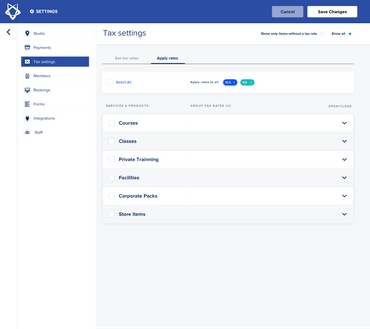
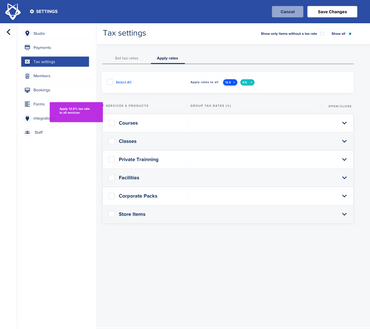
adding tooltips

Changed region(s): [[0.1189, 0.304, 0.2973, 0.3951]]

diff --git a/index.html b/index.html
@@ -39,23 +39,21 @@
 	<link type="text/css" rel="stylesheet" href="assets/apps/share/css-static/bootstrap.css">
 	<link type="text/css" rel="stylesheet" href="assets/apps/share/css-static/intlTelInput.css">
 	<link type="text/css" rel="stylesheet" href="assets/apps/share/css/share-offline.css">
-
-<!-- Hotjar Tracking Code for https://cristi-glofox.github.io/sales-tax-test-3a/index.html -->
+	<!-- Hotjar Tracking Code for https://cristi-glofox.github.io/sales-tax-test-3a/index.html -->
 <script>
-	var url = window.location.href;
-	if (url.indexOf("version3") == -1) {
-		window.location.href = "https://google.com";
-	}
-
-    (function(h,o,t,j,a,r){
-        h.hj=h.hj||function(){(h.hj.q=h.hj.q||[]).push(arguments)};
-        h._hjSettings={hjid:1389928,hjsv:6};
-        a=o.getElementsByTagName('head')[0];
-        r=o.createElement('script');r.async=1;
-        r.src=t+h._hjSettings.hjid+j+h._hjSettings.hjsv;
-        a.appendChild(r);
-    })(window,document,'https://static.hotjar.com/c/hotjar-','.js?sv=');
-</script>
+		var url = window.location.href;
+		if (url.indexOf("version3") == -1) {
+			window.location.href = "https://google.com";
+		}
+		(function(h,o,t,j,a,r){
+			h.hj=h.hj||function(){(h.hj.q=h.hj.q||[]).push(arguments)};
+			h._hjSettings={hjid:1389928,hjsv:6};
+			a=o.getElementsByTagName('head')[0];
+			r=o.createElement('script');r.async=1;
+			r.src=t+h._hjSettings.hjid+j+h._hjSettings.hjsv;
+			a.appendChild(r);
+		})(window,document,'https://static.hotjar.com/c/hotjar-','.js?sv=');
+	</script>
 </head>
 <body
 	class="branding-invision"
@@ -185,11 +183,11 @@
 						},
 						shouldShowPoweredBy: false,
 						share: {"isLoadAllScreens":true,"showToolbarIntroduction":false,"hasClosedShareIntro":true,"screenID":0,"isNavigateAllowed":true},
-						project: {"defaultbackgroundautostretch":"0","defaultZoomScrollBehavior":1,"isArchived":false,"homeScreenID":372209086,"createdAt":1562232473000,"mobileStatusbarFontColor":"white","isProcessed":true,"sortTypeID":1,"name":"[DES-73] Dash – Sale Tax V3A Test","platform":"any","defaultbackgroundimageposition":"tile-horizontally","isMobile":false,"defaultBackgroundImageID":"","isSample":false,"deviceType":"desktop","userID":148942075,"mobileDeviceID":0,"mobileStatusbarBackgroundColor":"#000000","isOverQuota":false,"defaultBackgroundColor":"333333","isInGracePeriod":false,"defaultAlignment":"center","updatedAt":1562236452000,"companyID":0,"id":17943299,"isSnap":false,"lastAccessedAt":1562232473000,"mobileStatusbarIsOpaque":false,"defaultbackgroundframe":"0","mobileDeviceWidth":0,"isAdvanced":false,"orientation":"any","mobileStatusbarIsVisible":true},
-						screens: [{"thumbnailUrl":"assets/thumb_v3A.Dash_SalesTax-Select or Apply to all@2x.png","extended":{},"isArchived":false,"screenTypeID":1,"backgroundImageWidth":"","createdAt":1562232942000,"zoomScrollBehavior":1,"updatedByUserName":"Cristi Farcas","backgroundImageUrl":"","backgroundImageHeight":"","clientFilename":"v3A.Dash_SalesTax-Select or Apply to all@2x.png","backgroundFrame":false,"backgroundImagePosition":"tile-horizontally","isProcessed":true,"screenGroupId":0,"width":2880,"unreadCommentCount":0,"name":"v3A.Dash SalesTax-Select Or Apply To All","screenUploadState":2,"backgroundColor":"333333","fixedHeaderHeight":180,"imageUrl":"assets/v3A.Dash_SalesTax-Select or Apply to all@2x.png","height":2562,"backgroundAutostretch":false,"userID":346811053,"backgroundimageserverfilename":"","serverFileName":"372209086.png","sort":1,"fixedFooterHeight":0,"alignment":"center","commentCount":0,"updatedAt":1562236943000,"id":372209086,"backgroundimageversion":"1","isPlaceholder":false,"projectID":17943299,"backgroundImageID":0,"imageVersion":4,"backgroundImageClientFilename":""},{"thumbnailUrl":"assets/thumb_v3A.Dash_SalesTax-Select All@2x.png","extended":{},"isArchived":false,"screenTypeID":1,"backgroundImageWidth":"","createdAt":1562232942000,"zoomScrollBehavior":1,"updatedByUserName":"Cristi Farcas","backgroundImageUrl":"","backgroundImageHeight":"","clientFilename":"v3A.Dash_SalesTax-Select All@2x.png","backgroundFrame":false,"backgroundImagePosition":"tile-horizontally","isProcessed":true,"screenGroupId":0,"width":2880,"unreadCommentCount":0,"name":"v3A.Dash SalesTax-Select All","screenUploadState":2,"backgroundColor":"333333","fixedHeaderHeight":0,"imageUrl":"assets/v3A.Dash_SalesTax-Select All@2x.png","height":2562,"backgroundAutostretch":false,"userID":346811053,"backgroundimageserverfilename":"","serverFileName":"372209087.png","sort":2,"fixedFooterHeight":0,"alignment":"center","commentCount":0,"updatedAt":1562236943000,"id":372209087,"backgroundimageversion":"1","isPlaceholder":false,"projectID":17943299,"backgroundImageID":0,"imageVersion":4,"backgroundImageClientFilename":""},{"thumbnailUrl":"assets/thumb_v3A.Dash_SalesTax-1 Rate Applied to all@2x.png","extended":{},"isArchived":false,"screenTypeID":1,"backgroundImageWidth":"","createdAt":1562232942000,"zoomScrollBehavior":1,"updatedByUserName":"Cristi Farcas","backgroundImageUrl":"","backgroundImageHeight":"","clientFilename":"v3A.Dash_SalesTax-1 Rate Applied to all@2x.png","backgroundFrame":false,"backgroundImagePosition":"tile-horizontally","isProcessed":true,"screenGroupId":0,"width":2880,"unreadCommentCount":0,"name":"v3A.Dash SalesTax-1 Rate Applied To All","screenUploadState":2,"backgroundColor":"333333","fixedHeaderHeight":0,"imageUrl":"assets/v3A.Dash_SalesTax-1 Rate Applied to all@2x.png","height":2562,"backgroundAutostretch":false,"userID":346811053,"backgroundimageserverfilename":"","serverFileName":"372209088.png","sort":3,"fixedFooterHeight":0,"alignment":"center","commentCount":0,"updatedAt":1562236942000,"id":372209088,"backgroundimageversion":"1","isPlaceholder":false,"projectID":17943299,"backgroundImageID":0,"imageVersion":4,"backgroundImageClientFilename":""},{"thumbnailUrl":"assets/thumb_v3A.Dash_SalesTax-Select Service 1@2x.png","extended":{},"isArchived":false,"screenTypeID":1,"backgroundImageWidth":"","createdAt":1562234922000,"zoomScrollBehavior":1,"updatedByUserName":"Cristi Farcas","backgroundImageUrl":"","backgroundImageHeight":"","clientFilename":"v3A.Dash_SalesTax-Select Service 1@2x.png","backgroundFrame":false,"backgroundImagePosition":"tile-horizontally","isProcessed":true,"screenGroupId":0,"width":2880,"unreadCommentCount":0,"name":"v3A.Dash SalesTax-Select Service 1","screenUploadState":2,"backgroundColor":"333333","fixedHeaderHeight":0,"imageUrl":"assets/v3A.Dash_SalesTax-Select Service 1@2x.png","height":2562,"backgroundAutostretch":false,"userID":346811053,"backgroundimageserverfilename":"","serverFileName":"372216613.png","sort":4,"fixedFooterHeight":0,"alignment":"center","commentCount":0,"updatedAt":1562236942000,"id":372216613,"backgroundimageversion":"1","isPlaceholder":false,"projectID":17943299,"backgroundImageID":0,"imageVersion":4,"backgroundImageClientFilename":""},{"thumbnailUrl":"assets/thumb_v3A.Dash_SalesTax-Select Service 2@2x.png","extended":{},"isArchived":false,"screenTypeID":1,"backgroundImageWidth":"","createdAt":1562234922000,"zoomScrollBehavior":1,"updatedByUserName":"Cristi Farcas","backgroundImageUrl":"","backgroundImageHeight":"","clientFilename":"v3A.Dash_SalesTax-Select Service 2@2x.png","backgroundFrame":false,"backgroundImagePosition":"tile-horizontally","isProcessed":true,"screenGroupId":0,"width":2880,"unreadCommentCount":0,"name":"v3A.Dash SalesTax-Select Service 2","screenUploadState":2,"backgroundColor":"333333","fixedHeaderHeight":180,"imageUrl":"assets/v3A.Dash_SalesTax-Select Service 2@2x.png","height":2562,"backgroundAutostretch":false,"userID":346811053,"backgroundimageserverfilename":"","serverFileName":"372216614.png","sort":5,"fixedFooterHeight":0,"alignment":"center","commentCount":0,"updatedAt":1562236943000,"id":372216614,"backgroundimageversion":"1","isPlaceholder":false,"projectID":17943299,"backgroundImageID":0,"imageVersion":3,"backgroundImageClientFilename":""},{"thumbnailUrl":"assets/thumb_v3A.Dash_SalesTax-Other Rated Applied@2x.png","extended":{},"isArchived":false,"screenTypeID":1,"backgroundImageWidth":"","createdAt":1562235511000,"zoomScrollBehavior":1,"updatedByUserName":"Cristi Farcas","backgroundImageUrl":"","backgroundImageHeight":"","clientFilename":"v3A.Dash_SalesTax-Other Rated Applied@2x.png","backgroundFrame":false,"backgroundImagePosition":"tile-horizontally","isProcessed":true,"screenGroupId":0,"width":2880,"unreadCommentCount":0,"name":"v3A.Dash SalesTax-Other Rated Applied","screenUploadState":2,"backgroundColor":"333333","fixedHeaderHeight":180,"imageUrl":"assets/v3A.Dash_SalesTax-Other Rated Applied@2x.png","height":2562,"backgroundAutostretch":false,"userID":346811053,"backgroundimageserverfilename":"","serverFileName":"372218409.png","sort":6,"fixedFooterHeight":0,"alignment":"center","commentCount":0,"updatedAt":1562236944000,"id":372218409,"backgroundimageversion":"1","isPlaceholder":false,"projectID":17943299,"backgroundImageID":0,"imageVersion":3,"backgroundImageClientFilename":""},{"thumbnailUrl":"assets/thumb_v3A.Dash_SalesTax-Expand Facilities 4@2x.png","extended":{},"isArchived":false,"screenTypeID":1,"backgroundImageWidth":"","createdAt":1562235511000,"zoomScrollBehavior":1,"updatedByUserName":"Cristi Farcas","backgroundImageUrl":"","backgroundImageHeight":"","clientFilename":"v3A.Dash_SalesTax-Expand Facilities 4@2x.png","backgroundFrame":false,"backgroundImagePosition":"tile-horizontally","isProcessed":true,"screenGroupId":0,"width":2880,"unreadCommentCount":0,"name":"v3A.Dash SalesTax-Expand Facilities 4","screenUploadState":2,"backgroundColor":"333333","fixedHeaderHeight":180,"imageUrl":"assets/v3A.Dash_SalesTax-Expand Facilities 4@2x.png","height":2562,"backgroundAutostretch":false,"userID":346811053,"backgroundimageserverfilename":"","serverFileName":"372218410.png","sort":7,"fixedFooterHeight":0,"alignment":"center","commentCount":0,"updatedAt":1562236944000,"id":372218410,"backgroundimageversion":"1","isPlaceholder":false,"projectID":17943299,"backgroundImageID":0,"imageVersion":3,"backgroundImageClientFilename":""},{"thumbnailUrl":"assets/thumb_v3A.Dash_SalesTax-Select item 1@2x.png","extended":{},"isArchived":false,"screenTypeID":1,"backgroundImageWidth":"","createdAt":1562235836000,"zoomScrollBehavior":1,"updatedByUserName":"Cristi Farcas","backgroundImageUrl":"","backgroundImageHeight":"","clientFilename":"v3A.Dash_SalesTax-Select item 1@2x.png","backgroundFrame":false,"backgroundImagePosition":"tile-horizontally","isProcessed":true,"screenGroupId":0,"width":2880,"unreadCommentCount":0,"name":"v3A.Dash SalesTax-Select Item 1","screenUploadState":2,"backgroundColor":"333333","fixedHeaderHeight":180,"imageUrl":"assets/v3A.Dash_SalesTax-Select item 1@2x.png","height":2562,"backgroundAutostretch":false,"userID":346811053,"backgroundimageserverfilename":"","serverFileName":"372219616.png","sort":8,"fixedFooterHeight":0,"alignment":"center","commentCount":0,"updatedAt":1562236943000,"id":372219616,"backgroundimageversion":"1","isPlaceholder":false,"projectID":17943299,"backgroundImageID":0,"imageVersion":2,"backgroundImageClientFilename":""},{"thumbnailUrl":"assets/thumb_v3A.Dash_SalesTax-Select item 3@2x.png","extended":{},"isArchived":false,"screenTypeID":1,"backgroundImageWidth":"","createdAt":1562235896000,"zoomScrollBehavior":1,"updatedByUserName":"Cristi Farcas","backgroundImageUrl":"","backgroundImageHeight":"","clientFilename":"v3A.Dash_SalesTax-Select item 3@2x.png","backgroundFrame":false,"backgroundImagePosition":"tile-horizontally","isProcessed":true,"screenGroupId":0,"width":2880,"unreadCommentCount":0,"name":"v3A.Dash SalesTax-Select Item 3","screenUploadState":2,"backgroundColor":"333333","fixedHeaderHeight":180,"imageUrl":"assets/v3A.Dash_SalesTax-Select item 3@2x.png","height":2562,"backgroundAutostretch":false,"userID":346811053,"backgroundimageserverfilename":"","serverFileName":"372219823.png","sort":9,"fixedFooterHeight":0,"alignment":"center","commentCount":0,"updatedAt":1562236943000,"id":372219823,"backgroundimageversion":"1","isPlaceholder":false,"projectID":17943299,"backgroundImageID":0,"imageVersion":3,"backgroundImageClientFilename":""},{"thumbnailUrl":"assets/thumb_v3A.Dash_SalesTax-More Options Tooltip@2x.png","extended":{},"isArchived":false,"screenTypeID":1,"backgroundImageWidth":"","createdAt":1562236324000,"zoomScrollBehavior":1,"updatedByUserName":"Cristi Farcas","backgroundImageUrl":"","backgroundImageHeight":"","clientFilename":"v3A.Dash_SalesTax-More Options Tooltip@2x.png","backgroundFrame":false,"backgroundImagePosition":"tile-horizontally","isProcessed":true,"screenGroupId":0,"width":2880,"unreadCommentCount":0,"name":"v3A.Dash SalesTax-More Options Tooltip","screenUploadState":2,"backgroundColor":"333333","fixedHeaderHeight":180,"imageUrl":"assets/v3A.Dash_SalesTax-More Options Tooltip@2x.png","height":2562,"backgroundAutostretch":false,"userID":346811053,"backgroundimageserverfilename":"","serverFileName":"372221021.png","sort":10,"fixedFooterHeight":0,"alignment":"center","commentCount":0,"updatedAt":1562236942000,"id":372221021,"backgroundimageversion":"1","isPlaceholder":false,"projectID":17943299,"backgroundImageID":0,"imageVersion":2,"backgroundImageClientFilename":""},{"thumbnailUrl":"assets/thumb_v3A.Dash_SalesTax-Apply Rates Tooltip@2x.png","extended":{},"isArchived":false,"screenTypeID":1,"backgroundImageWidth":"","createdAt":1562236324000,"zoomScrollBehavior":1,"updatedByUserName":"Cristi Farcas","backgroundImageUrl":"","backgroundImageHeight":"","clientFilename":"v3A.Dash_SalesTax-Apply Rates Tooltip@2x.png","backgroundFrame":false,"backgroundImagePosition":"tile-horizontally","isProcessed":true,"screenGroupId":0,"width":2880,"unreadCommentCount":0,"name":"v3A.Dash SalesTax-Apply Rates Tooltip","screenUploadState":2,"backgroundColor":"333333","fixedHeaderHeight":180,"imageUrl":"assets/v3A.Dash_SalesTax-Apply Rates Tooltip@2x.png","height":2562,"backgroundAutostretch":false,"userID":346811053,"backgroundimageserverfilename":"","serverFileName":"372221022.png","sort":11,"fixedFooterHeight":0,"alignment":"center","commentCount":0,"updatedAt":1562236940000,"id":372221022,"backgroundimageversion":"1","isPlaceholder":false,"projectID":17943299,"backgroundImageID":0,"imageVersion":2,"backgroundImageClientFilename":""},{"thumbnailUrl":"assets/thumb_v3A.Dash_SalesTax-2nd Rate Applied to Items@2x.png","extended":{},"isArchived":false,"screenTypeID":1,"backgroundImageWidth":"","createdAt":1562236324000,"zoomScrollBehavior":1,"updatedByUserName":"Cristi Farcas","backgroundImageUrl":"","backgroundImageHeight":"","clientFilename":"v3A.Dash_SalesTax-2nd Rate Applied to Items@2x.png","backgroundFrame":false,"backgroundImagePosition":"tile-horizontally","isProcessed":true,"screenGroupId":0,"width":2880,"unreadCommentCount":0,"name":"v3A.Dash SalesTax-2nd Rate Applied To Items","screenUploadState":2,"backgroundColor":"333333","fixedHeaderHeight":180,"imageUrl":"assets/v3A.Dash_SalesTax-2nd Rate Applied to Items@2x.png","height":2562,"backgroundAutostretch":false,"userID":346811053,"backgroundimageserverfilename":"","serverFileName":"372221020.png","sort":12,"fixedFooterHeight":0,"alignment":"center","commentCount":0,"updatedAt":1562236941000,"id":372221020,"backgroundimageversion":"1","isPlaceholder":false,"projectID":17943299,"backgroundImageID":0,"imageVersion":2,"backgroundImageClientFilename":""}],
-						dividers: [{"position":0,"sort":0,"type":"divider","projectID":17943299,"label":"","dividerID":0,"expanded":true}],
+						project: {"defaultbackgroundautostretch":"0","defaultZoomScrollBehavior":1,"isArchived":false,"homeScreenID":372296375,"createdAt":1562232473000,"mobileStatusbarFontColor":"white","isProcessed":true,"sortTypeID":1,"name":"[DES-73] Dash – Sales Tax V3 Test","platform":"any","defaultbackgroundimageposition":"tile-horizontally","isMobile":false,"defaultBackgroundImageID":"","isSample":false,"deviceType":"desktop","userID":148942075,"mobileDeviceID":0,"mobileStatusbarBackgroundColor":"#000000","isOverQuota":false,"defaultBackgroundColor":"333333","isInGracePeriod":false,"defaultAlignment":"center","updatedAt":1562260210000,"companyID":0,"id":17943299,"isSnap":false,"lastAccessedAt":1562232473000,"mobileStatusbarIsOpaque":false,"defaultbackgroundframe":"0","mobileDeviceWidth":0,"isAdvanced":false,"orientation":"any","mobileStatusbarIsVisible":true},
+						screens: [{"thumbnailUrl":"assets/thumb_v3A.Dash_SalesTax-Select or Apply to all ---pretip@2x.png","extended":{},"isArchived":false,"screenTypeID":1,"backgroundImageWidth":"","createdAt":1562260185000,"zoomScrollBehavior":1,"updatedByUserName":"Cristi Farcas","backgroundImageUrl":"","backgroundImageHeight":"","clientFilename":"v3A.Dash_SalesTax-Select or Apply to all ---pretip@2x.png","backgroundFrame":false,"backgroundImagePosition":"tile-horizontally","isProcessed":true,"screenGroupId":13620599,"width":2880,"unreadCommentCount":0,"name":"v3A.Dash SalesTax-Select Or Apply To All ---pretip","screenUploadState":3,"backgroundColor":"333333","fixedHeaderHeight":0,"imageUrl":"assets/v3A.Dash_SalesTax-Select or Apply to all ---pretip@2x.png","height":2560,"backgroundAutostretch":false,"userID":346811053,"backgroundimageserverfilename":"","serverFileName":"372296375.png","sort":1,"fixedFooterHeight":0,"alignment":"center","commentCount":0,"updatedAt":1562260191000,"id":372296375,"backgroundimageversion":"1","isPlaceholder":false,"projectID":17943299,"backgroundImageID":0,"imageVersion":1,"backgroundImageClientFilename":""},{"thumbnailUrl":"assets/thumb_v3A.Dash_SalesTax-Select or Apply to all@2x.png","extended":{},"isArchived":false,"screenTypeID":1,"backgroundImageWidth":"","createdAt":1562232942000,"zoomScrollBehavior":1,"updatedByUserName":"Cristi Farcas","backgroundImageUrl":"","backgroundImageHeight":"","clientFilename":"v3A.Dash_SalesTax-Select or Apply to all@2x.png","backgroundFrame":false,"backgroundImagePosition":"tile-horizontally","isProcessed":true,"screenGroupId":13620599,"width":2880,"unreadCommentCount":0,"name":"v3A.Dash SalesTax-Select Or Apply To All","screenUploadState":2,"backgroundColor":"333333","fixedHeaderHeight":180,"imageUrl":"assets/v3A.Dash_SalesTax-Select or Apply to all@2x.png","height":2562,"backgroundAutostretch":false,"userID":346811053,"backgroundimageserverfilename":"","serverFileName":"372209086.png","sort":2,"fixedFooterHeight":0,"alignment":"center","commentCount":0,"updatedAt":1562260219000,"id":372209086,"backgroundimageversion":"1","isPlaceholder":false,"projectID":17943299,"backgroundImageID":0,"imageVersion":5,"backgroundImageClientFilename":""},{"thumbnailUrl":"assets/thumb_v3A.Dash_SalesTax-Select All@2x.png","extended":{},"isArchived":false,"screenTypeID":1,"backgroundImageWidth":"","createdAt":1562232942000,"zoomScrollBehavior":1,"updatedByUserName":"Cristi Farcas","backgroundImageUrl":"","backgroundImageHeight":"","clientFilename":"v3A.Dash_SalesTax-Select All@2x.png","backgroundFrame":false,"backgroundImagePosition":"tile-horizontally","isProcessed":true,"screenGroupId":13620599,"width":2880,"unreadCommentCount":0,"name":"v3A.Dash SalesTax-Select All","screenUploadState":2,"backgroundColor":"333333","fixedHeaderHeight":0,"imageUrl":"assets/v3A.Dash_SalesTax-Select All@2x.png","height":2562,"backgroundAutostretch":false,"userID":346811053,"backgroundimageserverfilename":"","serverFileName":"372209087.png","sort":3,"fixedFooterHeight":0,"alignment":"center","commentCount":0,"updatedAt":1562236943000,"id":372209087,"backgroundimageversion":"1","isPlaceholder":false,"projectID":17943299,"backgroundImageID":0,"imageVersion":4,"backgroundImageClientFilename":""},{"thumbnailUrl":"assets/thumb_v3A.Dash_SalesTax-1 Rate Applied to all@2x.png","extended":{},"isArchived":false,"screenTypeID":1,"backgroundImageWidth":"","createdAt":1562232942000,"zoomScrollBehavior":1,"updatedByUserName":"Cristi Farcas","backgroundImageUrl":"","backgroundImageHeight":"","clientFilename":"v3A.Dash_SalesTax-1 Rate Applied to all@2x.png","backgroundFrame":false,"backgroundImagePosition":"tile-horizontally","isProcessed":true,"screenGroupId":13620599,"width":2880,"unreadCommentCount":0,"name":"v3A.Dash SalesTax-1 Rate Applied To All","screenUploadState":2,"backgroundColor":"333333","fixedHeaderHeight":0,"imageUrl":"assets/v3A.Dash_SalesTax-1 Rate Applied to all@2x.png","height":2562,"backgroundAutostretch":false,"userID":346811053,"backgroundimageserverfilename":"","serverFileName":"372209088.png","sort":4,"fixedFooterHeight":0,"alignment":"center","commentCount":0,"updatedAt":1562260674000,"id":372209088,"backgroundimageversion":"1","isPlaceholder":false,"projectID":17943299,"backgroundImageID":0,"imageVersion":6,"backgroundImageClientFilename":""},{"thumbnailUrl":"assets/thumb_v3A.Dash_SalesTax-Select Service 1@2x.png","extended":{},"isArchived":false,"screenTypeID":1,"backgroundImageWidth":"","createdAt":1562234922000,"zoomScrollBehavior":1,"updatedByUserName":"Cristi Farcas","backgroundImageUrl":"","backgroundImageHeight":"","clientFilename":"v3A.Dash_SalesTax-Select Service 1@2x.png","backgroundFrame":false,"backgroundImagePosition":"tile-horizontally","isProcessed":true,"screenGroupId":13620599,"width":2880,"unreadCommentCount":0,"name":"v3A.Dash SalesTax-Select Service 1","screenUploadState":2,"backgroundColor":"333333","fixedHeaderHeight":0,"imageUrl":"assets/v3A.Dash_SalesTax-Select Service 1@2x.png","height":2562,"backgroundAutostretch":false,"userID":346811053,"backgroundimageserverfilename":"","serverFileName":"372216613.png","sort":5,"fixedFooterHeight":0,"alignment":"center","commentCount":0,"updatedAt":1562236942000,"id":372216613,"backgroundimageversion":"1","isPlaceholder":false,"projectID":17943299,"backgroundImageID":0,"imageVersion":4,"backgroundImageClientFilename":""},{"thumbnailUrl":"assets/thumb_v3A.Dash_SalesTax-Select Service 2@2x.png","extended":{},"isArchived":false,"screenTypeID":1,"backgroundImageWidth":"","createdAt":1562234922000,"zoomScrollBehavior":1,"updatedByUserName":"Cristi Farcas","backgroundImageUrl":"","backgroundImageHeight":"","clientFilename":"v3A.Dash_SalesTax-Select Service 2@2x.png","backgroundFrame":false,"backgroundImagePosition":"tile-horizontally","isProcessed":true,"screenGroupId":13620599,"width":2880,"unreadCommentCount":0,"name":"v3A.Dash SalesTax-Select Service 2","screenUploadState":2,"backgroundColor":"333333","fixedHeaderHeight":180,"imageUrl":"assets/v3A.Dash_SalesTax-Select Service 2@2x.png","height":2562,"backgroundAutostretch":false,"userID":346811053,"backgroundimageserverfilename":"","serverFileName":"372216614.png","sort":6,"fixedFooterHeight":0,"alignment":"center","commentCount":0,"updatedAt":1562240510000,"id":372216614,"backgroundimageversion":"1","isPlaceholder":false,"projectID":17943299,"backgroundImageID":0,"imageVersion":4,"backgroundImageClientFilename":""},{"thumbnailUrl":"assets/thumb_v3A.Dash_SalesTax-Other Rated Applied@2x.png","extended":{},"isArchived":false,"screenTypeID":1,"backgroundImageWidth":"","createdAt":1562235511000,"zoomScrollBehavior":1,"updatedByUserName":"Cristi Farcas","backgroundImageUrl":"","backgroundImageHeight":"","clientFilename":"v3A.Dash_SalesTax-Other Rated Applied@2x.png","backgroundFrame":false,"backgroundImagePosition":"tile-horizontally","isProcessed":true,"screenGroupId":13620599,"width":2880,"unreadCommentCount":0,"name":"v3A.Dash SalesTax-Other Rated Applied","screenUploadState":2,"backgroundColor":"333333","fixedHeaderHeight":180,"imageUrl":"assets/v3A.Dash_SalesTax-Other Rated Applied@2x.png","height":2562,"backgroundAutostretch":false,"userID":346811053,"backgroundimageserverfilename":"","serverFileName":"372218409.png","sort":7,"fixedFooterHeight":0,"alignment":"center","commentCount":0,"updatedAt":1562260734000,"id":372218409,"backgroundimageversion":"1","isPlaceholder":false,"projectID":17943299,"backgroundImageID":0,"imageVersion":5,"backgroundImageClientFilename":""},{"thumbnailUrl":"assets/thumb_v3A.Dash_SalesTax-Expand Facilities 4@2x.png","extended":{},"isArchived":false,"screenTypeID":1,"backgroundImageWidth":"","createdAt":1562235511000,"zoomScrollBehavior":1,"updatedByUserName":"Cristi Farcas","backgroundImageUrl":"","backgroundImageHeight":"","clientFilename":"v3A.Dash_SalesTax-Expand Facilities 4@2x.png","backgroundFrame":false,"backgroundImagePosition":"tile-horizontally","isProcessed":true,"screenGroupId":13620599,"width":2880,"unreadCommentCount":0,"name":"v3A.Dash SalesTax-Expand Facilities 4","screenUploadState":2,"backgroundColor":"333333","fixedHeaderHeight":180,"imageUrl":"assets/v3A.Dash_SalesTax-Expand Facilities 4@2x.png","height":2562,"backgroundAutostretch":false,"userID":346811053,"backgroundimageserverfilename":"","serverFileName":"372218410.png","sort":8,"fixedFooterHeight":0,"alignment":"center","commentCount":0,"updatedAt":1562240510000,"id":372218410,"backgroundimageversion":"1","isPlaceholder":false,"projectID":17943299,"backgroundImageID":0,"imageVersion":4,"backgroundImageClientFilename":""},{"thumbnailUrl":"assets/thumb_v3A.Dash_SalesTax-Select item 1@2x.png","extended":{},"isArchived":false,"screenTypeID":1,"backgroundImageWidth":"","createdAt":1562235836000,"zoomScrollBehavior":1,"updatedByUserName":"Cristi Farcas","backgroundImageUrl":"","backgroundImageHeight":"","clientFilename":"v3A.Dash_SalesTax-Select item 1@2x.png","backgroundFrame":false,"backgroundImagePosition":"tile-horizontally","isProcessed":true,"screenGroupId":13620599,"width":2880,"unreadCommentCount":0,"name":"v3A.Dash SalesTax-Select Item 1","screenUploadState":2,"backgroundColor":"333333","fixedHeaderHeight":180,"imageUrl":"assets/v3A.Dash_SalesTax-Select item 1@2x.png","height":2562,"backgroundAutostretch":false,"userID":346811053,"backgroundimageserverfilename":"","serverFileName":"372219616.png","sort":9,"fixedFooterHeight":0,"alignment":"center","commentCount":0,"updatedAt":1562240511000,"id":372219616,"backgroundimageversion":"1","isPlaceholder":false,"projectID":17943299,"backgroundImageID":0,"imageVersion":3,"backgroundImageClientFilename":""},{"thumbnailUrl":"assets/thumb_v3A.Dash_SalesTax-Select item 3@2x.png","extended":{},"isArchived":false,"screenTypeID":1,"backgroundImageWidth":"","createdAt":1562235896000,"zoomScrollBehavior":1,"updatedByUserName":"Cristi Farcas","backgroundImageUrl":"","backgroundImageHeight":"","clientFilename":"v3A.Dash_SalesTax-Select item 3@2x.png","backgroundFrame":false,"backgroundImagePosition":"tile-horizontally","isProcessed":true,"screenGroupId":13620599,"width":2880,"unreadCommentCount":0,"name":"v3A.Dash SalesTax-Select Item 3","screenUploadState":2,"backgroundColor":"333333","fixedHeaderHeight":180,"imageUrl":"assets/v3A.Dash_SalesTax-Select item 3@2x.png","height":2562,"backgroundAutostretch":false,"userID":346811053,"backgroundimageserverfilename":"","serverFileName":"372219823.png","sort":10,"fixedFooterHeight":0,"alignment":"center","commentCount":0,"updatedAt":1562260815000,"id":372219823,"backgroundimageversion":"1","isPlaceholder":false,"projectID":17943299,"backgroundImageID":0,"imageVersion":5,"backgroundImageClientFilename":""},{"thumbnailUrl":"assets/thumb_v3A.Dash_SalesTax-More Options Tooltip@2x.png","extended":{},"isArchived":false,"screenTypeID":1,"backgroundImageWidth":"","createdAt":1562236324000,"zoomScrollBehavior":1,"updatedByUserName":"Cristi Farcas","backgroundImageUrl":"","backgroundImageHeight":"","clientFilename":"v3A.Dash_SalesTax-More Options Tooltip@2x.png","backgroundFrame":false,"backgroundImagePosition":"tile-horizontally","isProcessed":true,"screenGroupId":13620599,"width":2880,"unreadCommentCount":0,"name":"v3A.Dash SalesTax-More Options Tooltip","screenUploadState":2,"backgroundColor":"333333","fixedHeaderHeight":180,"imageUrl":"assets/v3A.Dash_SalesTax-More Options Tooltip@2x.png","height":2562,"backgroundAutostretch":false,"userID":346811053,"backgroundimageserverfilename":"","serverFileName":"372221021.png","sort":11,"fixedFooterHeight":0,"alignment":"center","commentCount":0,"updatedAt":1562236942000,"id":372221021,"backgroundimageversion":"1","isPlaceholder":false,"projectID":17943299,"backgroundImageID":0,"imageVersion":2,"backgroundImageClientFilename":""},{"thumbnailUrl":"assets/thumb_v3A.Dash_SalesTax-Apply Rates Tooltip@2x.png","extended":{},"isArchived":false,"screenTypeID":1,"backgroundImageWidth":"","createdAt":1562236324000,"zoomScrollBehavior":1,"updatedByUserName":"Cristi Farcas","backgroundImageUrl":"","backgroundImageHeight":"","clientFilename":"v3A.Dash_SalesTax-Apply Rates Tooltip@2x.png","backgroundFrame":false,"backgroundImagePosition":"tile-horizontally","isProcessed":true,"screenGroupId":13620599,"width":2880,"unreadCommentCount":0,"name":"v3A.Dash SalesTax-Apply Rates Tooltip","screenUploadState":2,"backgroundColor":"333333","fixedHeaderHeight":180,"imageUrl":"assets/v3A.Dash_SalesTax-Apply Rates Tooltip@2x.png","height":2562,"backgroundAutostretch":false,"userID":346811053,"backgroundimageserverfilename":"","serverFileName":"372221022.png","sort":12,"fixedFooterHeight":0,"alignment":"center","commentCount":0,"updatedAt":1562236940000,"id":372221022,"backgroundimageversion":"1","isPlaceholder":false,"projectID":17943299,"backgroundImageID":0,"imageVersion":2,"backgroundImageClientFilename":""},{"thumbnailUrl":"assets/thumb_v3A.Dash_SalesTax-2nd Rate Applied to Items@2x.png","extended":{},"isArchived":false,"screenTypeID":1,"backgroundImageWidth":"","createdAt":1562236324000,"zoomScrollBehavior":1,"updatedByUserName":"Cristi Farcas","backgroundImageUrl":"","backgroundImageHeight":"","clientFilename":"v3A.Dash_SalesTax-2nd Rate Applied to Items@2x.png","backgroundFrame":false,"backgroundImagePosition":"tile-horizontally","isProcessed":true,"screenGroupId":13620599,"width":2880,"unreadCommentCount":0,"name":"v3A.Dash SalesTax-2nd Rate Applied To Items","screenUploadState":2,"backgroundColor":"333333","fixedHeaderHeight":180,"imageUrl":"assets/v3A.Dash_SalesTax-2nd Rate Applied to Items@2x.png","height":2562,"backgroundAutostretch":false,"userID":346811053,"backgroundimageserverfilename":"","serverFileName":"372221020.png","sort":13,"fixedFooterHeight":0,"alignment":"center","commentCount":0,"updatedAt":1562236941000,"id":372221020,"backgroundimageversion":"1","isPlaceholder":false,"projectID":17943299,"backgroundImageID":0,"imageVersion":2,"backgroundImageClientFilename":""}],
+						dividers: [{"position":0,"sort":0,"type":"divider","projectID":17943299,"label":"","dividerID":0,"expanded":true},{"position":0,"sort":1,"type":"divider","projectID":17943299,"label":"New Section","dividerID":13620599}],
 						metaScreens: {"icon":{"imageUrl":"","sameOriginImageUrl":"","relation":"apple-touch-icon-precomposed"},"splash":{"imageUrl":"","sameOriginImageUrl":"","relation":"apple-touch-startup-image","backgroundColor":""}},
-						hotspots: [{"metaData":{},"height":138,"isBottomAligned":false,"templateID":"","eventTypeID":1,"targetScreenID":372216613,"y":888,"screenID":372209088,"transitionTypeID":1,"targetTypeID":1,"width":126,"x":794,"id":1042864728,"isScrollTo":true},{"metaData":{},"height":102,"isBottomAligned":false,"templateID":"","eventTypeID":1,"targetScreenID":372221020,"y":590,"screenID":372221022,"transitionTypeID":1,"targetTypeID":1,"width":142,"x":1774,"id":1042877842,"isScrollTo":false},{"metaData":{},"height":78,"isBottomAligned":false,"templateID":"","eventTypeID":1,"targetScreenID":372221020,"y":1738,"screenID":372221022,"transitionTypeID":1,"targetTypeID":1,"width":416,"x":2174,"id":1042877923,"isScrollTo":true},{"metaData":{},"height":118,"isBottomAligned":false,"templateID":"","eventTypeID":1,"targetScreenID":372219616,"y":1580,"screenID":372218410,"transitionTypeID":1,"targetTypeID":1,"width":80,"x":906,"id":1042870787,"isScrollTo":true},{"metaData":{},"height":140,"isBottomAligned":false,"templateID":"","eventTypeID":1,"targetScreenID":372218409,"y":1312,"screenID":372218410,"transitionTypeID":1,"targetTypeID":1,"width":128,"x":2618,"id":1042871253,"isScrollTo":true},{"metaData":{},"height":90,"isBottomAligned":false,"templateID":"","eventTypeID":1,"targetScreenID":372221022,"y":1696,"screenID":372221021,"transitionTypeID":1,"targetTypeID":1,"width":430,"x":2166,"id":1042877288,"isScrollTo":true},{"metaData":{},"height":136,"isBottomAligned":false,"templateID":"","eventTypeID":1,"targetScreenID":372221020,"y":570,"screenID":372221021,"transitionTypeID":1,"targetTypeID":1,"width":140,"x":1776,"id":1042877724,"isScrollTo":false},{"metaData":{},"height":140,"isBottomAligned":false,"templateID":"","eventTypeID":1,"targetScreenID":372218410,"y":1312,"screenID":372218409,"transitionTypeID":1,"targetTypeID":1,"width":152,"x":2596,"id":1042869817,"isScrollTo":true},{"metaData":{},"height":114,"isBottomAligned":false,"templateID":"","eventTypeID":1,"targetScreenID":372219823,"y":1826,"screenID":372219616,"transitionTypeID":1,"targetTypeID":1,"width":72,"x":910,"id":1042873153,"isScrollTo":true},{"metaData":{},"height":136,"isBottomAligned":false,"templateID":"","eventTypeID":1,"targetScreenID":372218409,"y":1318,"screenID":372219616,"transitionTypeID":1,"targetTypeID":1,"width":148,"x":2598,"id":1042873428,"isScrollTo":true},{"metaData":{},"height":124,"isBottomAligned":false,"templateID":"","eventTypeID":1,"targetScreenID":372221022,"y":576,"screenID":372219823,"transitionTypeID":1,"targetTypeID":1,"width":454,"x":1458,"id":1042876135,"isScrollTo":false},{"metaData":{},"height":140,"isBottomAligned":false,"templateID":"","eventTypeID":1,"targetScreenID":372218409,"y":1312,"screenID":372219823,"transitionTypeID":1,"targetTypeID":1,"width":156,"x":2588,"id":1042876477,"isScrollTo":false},{"metaData":{},"height":354,"isBottomAligned":false,"templateID":"","eventTypeID":1,"targetScreenID":372221021,"y":1590,"screenID":372219823,"transitionTypeID":1,"targetTypeID":1,"width":128,"x":2572,"id":1042876539,"isScrollTo":true},{"metaData":{},"height":140,"isBottomAligned":false,"templateID":"","eventTypeID":1,"targetScreenID":372216614,"y":1026,"screenID":372216613,"transitionTypeID":1,"targetTypeID":1,"width":122,"x":798,"id":1042865421,"isScrollTo":true},{"metaData":{},"height":164,"isBottomAligned":false,"templateID":"","eventTypeID":1,"targetScreenID":372209088,"y":558,"screenID":372216613,"transitionTypeID":1,"targetTypeID":1,"width":190,"x":1038,"id":1042865678,"isScrollTo":true},{"metaData":{},"height":168,"isBottomAligned":false,"templateID":"","eventTypeID":1,"targetScreenID":372209088,"y":556,"screenID":372216614,"transitionTypeID":1,"targetTypeID":1,"width":202,"x":1038,"id":1042865780,"isScrollTo":true},{"metaData":{},"height":132,"isBottomAligned":false,"templateID":"","eventTypeID":1,"targetScreenID":372218409,"y":572,"screenID":372216614,"transitionTypeID":1,"targetTypeID":1,"width":146,"x":1712,"id":1042867485,"isScrollTo":true},{"metaData":{},"height":120,"isBottomAligned":false,"templateID":25775952,"eventTypeID":1,"targetScreenID":372209086,"y":580,"screenID":372209088,"transitionTypeID":1,"targetTypeID":1,"width":558,"x":2168,"id":1042843830,"isScrollTo":false},{"metaData":{},"height":120,"isBottomAligned":false,"templateID":25775952,"eventTypeID":1,"targetScreenID":372209086,"y":580,"screenID":372221020,"transitionTypeID":1,"targetTypeID":1,"width":558,"x":2168,"id":1042843830,"isScrollTo":false},{"metaData":{},"height":120,"isBottomAligned":false,"templateID":25775952,"eventTypeID":1,"targetScreenID":372209086,"y":580,"screenID":372218409,"transitionTypeID":1,"targetTypeID":1,"width":558,"x":2168,"id":1042843830,"isScrollTo":false},{"metaData":{},"height":94,"isBottomAligned":false,"templateID":25775813,"eventTypeID":1,"targetScreenID":372209087,"y":586,"screenID":372209087,"transitionTypeID":1,"targetTypeID":1,"width":218,"x":818,"id":1042842636,"isScrollTo":false},{"metaData":{},"height":94,"isBottomAligned":false,"templateID":25775813,"eventTypeID":1,"targetScreenID":372209086,"y":586,"screenID":372209087,"transitionTypeID":1,"targetTypeID":1,"width":152,"x":1060,"id":1042843314,"isScrollTo":false},{"metaData":{},"height":70,"isBottomAligned":false,"templateID":25775813,"eventTypeID":1,"targetScreenID":372209088,"y":602,"screenID":372209087,"transitionTypeID":1,"targetTypeID":1,"width":144,"x":1716,"id":1042843529,"isScrollTo":false},{"metaData":{},"height":94,"isBottomAligned":false,"templateID":25775813,"eventTypeID":1,"targetScreenID":372209087,"y":586,"screenID":372209086,"transitionTypeID":1,"targetTypeID":1,"width":218,"x":818,"id":1042842636,"isScrollTo":false},{"metaData":{},"height":94,"isBottomAligned":false,"templateID":25775813,"eventTypeID":1,"targetScreenID":372209086,"y":586,"screenID":372209086,"transitionTypeID":1,"targetTypeID":1,"width":152,"x":1060,"id":1042843314,"isScrollTo":false},{"metaData":{},"height":70,"isBottomAligned":false,"templateID":25775813,"eventTypeID":1,"targetScreenID":372209088,"y":602,"screenID":372209086,"transitionTypeID":1,"targetTypeID":1,"width":144,"x":1716,"id":1042843529,"isScrollTo":false},{"metaData":{},"height":120,"isBottomAligned":false,"templateID":25775952,"eventTypeID":1,"targetScreenID":372209086,"y":580,"screenID":372216613,"transitionTypeID":1,"targetTypeID":1,"width":558,"x":2168,"id":1042843830,"isScrollTo":false},{"metaData":{},"height":120,"isBottomAligned":false,"templateID":25775952,"eventTypeID":1,"targetScreenID":372209086,"y":580,"screenID":372216614,"transitionTypeID":1,"targetTypeID":1,"width":558,"x":2168,"id":1042843830,"isScrollTo":false}],
+						hotspots: [{"metaData":{},"height":138,"isBottomAligned":false,"templateID":"","eventTypeID":1,"targetScreenID":372216613,"y":888,"screenID":372209088,"transitionTypeID":1,"targetTypeID":1,"width":126,"x":794,"id":1042864728,"isScrollTo":true},{"metaData":{},"height":102,"isBottomAligned":false,"templateID":"","eventTypeID":1,"targetScreenID":372221020,"y":590,"screenID":372221022,"transitionTypeID":1,"targetTypeID":1,"width":142,"x":1774,"id":1042877842,"isScrollTo":false},{"metaData":{},"height":78,"isBottomAligned":false,"templateID":"","eventTypeID":1,"targetScreenID":372221020,"y":1738,"screenID":372221022,"transitionTypeID":1,"targetTypeID":1,"width":416,"x":2174,"id":1042877923,"isScrollTo":true},{"metaData":{},"height":118,"isBottomAligned":false,"templateID":"","eventTypeID":1,"targetScreenID":372219616,"y":1580,"screenID":372218410,"transitionTypeID":1,"targetTypeID":1,"width":80,"x":906,"id":1042870787,"isScrollTo":true},{"metaData":{},"height":140,"isBottomAligned":false,"templateID":"","eventTypeID":1,"targetScreenID":372218409,"y":1312,"screenID":372218410,"transitionTypeID":1,"targetTypeID":1,"width":128,"x":2618,"id":1042871253,"isScrollTo":true},{"metaData":{},"height":90,"isBottomAligned":false,"templateID":"","eventTypeID":1,"targetScreenID":372221022,"y":1696,"screenID":372221021,"transitionTypeID":1,"targetTypeID":1,"width":430,"x":2166,"id":1042877288,"isScrollTo":true},{"metaData":{},"height":136,"isBottomAligned":false,"templateID":"","eventTypeID":1,"targetScreenID":372221020,"y":570,"screenID":372221021,"transitionTypeID":1,"targetTypeID":1,"width":140,"x":1776,"id":1042877724,"isScrollTo":false},{"metaData":{},"height":140,"isBottomAligned":false,"templateID":"","eventTypeID":1,"targetScreenID":372218410,"y":1312,"screenID":372218409,"transitionTypeID":1,"targetTypeID":1,"width":152,"x":2596,"id":1042869817,"isScrollTo":true},{"metaData":{},"height":114,"isBottomAligned":false,"templateID":"","eventTypeID":1,"targetScreenID":372219823,"y":1826,"screenID":372219616,"transitionTypeID":1,"targetTypeID":1,"width":72,"x":910,"id":1042873153,"isScrollTo":true},{"metaData":{},"height":136,"isBottomAligned":false,"templateID":"","eventTypeID":1,"targetScreenID":372218409,"y":1318,"screenID":372219616,"transitionTypeID":1,"targetTypeID":1,"width":148,"x":2598,"id":1042873428,"isScrollTo":true},{"metaData":{},"height":124,"isBottomAligned":false,"templateID":"","eventTypeID":1,"targetScreenID":372221022,"y":576,"screenID":372219823,"transitionTypeID":1,"targetTypeID":1,"width":454,"x":1458,"id":1042876135,"isScrollTo":false},{"metaData":{},"height":140,"isBottomAligned":false,"templateID":"","eventTypeID":1,"targetScreenID":372218409,"y":1312,"screenID":372219823,"transitionTypeID":1,"targetTypeID":1,"width":156,"x":2588,"id":1042876477,"isScrollTo":false},{"metaData":{},"height":354,"isBottomAligned":false,"templateID":"","eventTypeID":1,"targetScreenID":372221021,"y":1590,"screenID":372219823,"transitionTypeID":1,"targetTypeID":1,"width":128,"x":2572,"id":1042876539,"isScrollTo":true},{"metaData":{"redirectAfter":2000},"height":0,"isBottomAligned":false,"templateID":"","eventTypeID":9,"targetScreenID":0,"y":-10,"screenID":372296375,"transitionTypeID":1,"targetTypeID":4,"width":0,"x":-10,"id":1043092936,"isScrollTo":false},{"metaData":{},"height":140,"isBottomAligned":false,"templateID":"","eventTypeID":1,"targetScreenID":372216614,"y":1026,"screenID":372216613,"transitionTypeID":1,"targetTypeID":1,"width":122,"x":798,"id":1042865421,"isScrollTo":true},{"metaData":{},"height":164,"isBottomAligned":false,"templateID":"","eventTypeID":1,"targetScreenID":372209088,"y":558,"screenID":372216613,"transitionTypeID":1,"targetTypeID":1,"width":190,"x":1038,"id":1042865678,"isScrollTo":true},{"metaData":{},"height":168,"isBottomAligned":false,"templateID":"","eventTypeID":1,"targetScreenID":372209088,"y":556,"screenID":372216614,"transitionTypeID":1,"targetTypeID":1,"width":202,"x":1038,"id":1042865780,"isScrollTo":true},{"metaData":{},"height":132,"isBottomAligned":false,"templateID":"","eventTypeID":1,"targetScreenID":372218409,"y":572,"screenID":372216614,"transitionTypeID":1,"targetTypeID":1,"width":146,"x":1712,"id":1042867485,"isScrollTo":true},{"metaData":{},"height":120,"isBottomAligned":false,"templateID":25775952,"eventTypeID":1,"targetScreenID":372209086,"y":580,"screenID":372209088,"transitionTypeID":1,"targetTypeID":1,"width":558,"x":2168,"id":1042843830,"isScrollTo":false},{"metaData":{},"height":120,"isBottomAligned":false,"templateID":25775952,"eventTypeID":1,"targetScreenID":372209086,"y":580,"screenID":372221020,"transitionTypeID":1,"targetTypeID":1,"width":558,"x":2168,"id":1042843830,"isScrollTo":false},{"metaData":{},"height":120,"isBottomAligned":false,"templateID":25775952,"eventTypeID":1,"targetScreenID":372209086,"y":580,"screenID":372218409,"transitionTypeID":1,"targetTypeID":1,"width":558,"x":2168,"id":1042843830,"isScrollTo":false},{"metaData":{},"height":94,"isBottomAligned":false,"templateID":25775813,"eventTypeID":1,"targetScreenID":372209087,"y":586,"screenID":372209087,"transitionTypeID":1,"targetTypeID":1,"width":218,"x":818,"id":1042842636,"isScrollTo":false},{"metaData":{},"height":94,"isBottomAligned":false,"templateID":25775813,"eventTypeID":1,"targetScreenID":372209086,"y":586,"screenID":372209087,"transitionTypeID":1,"targetTypeID":1,"width":152,"x":1060,"id":1042843314,"isScrollTo":false},{"metaData":{},"height":70,"isBottomAligned":false,"templateID":25775813,"eventTypeID":1,"targetScreenID":372209088,"y":602,"screenID":372209087,"transitionTypeID":1,"targetTypeID":1,"width":144,"x":1716,"id":1042843529,"isScrollTo":false},{"metaData":{},"height":94,"isBottomAligned":false,"templateID":25775813,"eventTypeID":1,"targetScreenID":372209087,"y":586,"screenID":372209086,"transitionTypeID":1,"targetTypeID":1,"width":218,"x":818,"id":1042842636,"isScrollTo":false},{"metaData":{},"height":94,"isBottomAligned":false,"templateID":25775813,"eventTypeID":1,"targetScreenID":372209086,"y":586,"screenID":372209086,"transitionTypeID":1,"targetTypeID":1,"width":152,"x":1060,"id":1042843314,"isScrollTo":false},{"metaData":{},"height":70,"isBottomAligned":false,"templateID":25775813,"eventTypeID":1,"targetScreenID":372209088,"y":602,"screenID":372209086,"transitionTypeID":1,"targetTypeID":1,"width":144,"x":1716,"id":1042843529,"isScrollTo":false},{"metaData":{},"height":120,"isBottomAligned":false,"templateID":25775952,"eventTypeID":1,"targetScreenID":372209086,"y":580,"screenID":372216613,"transitionTypeID":1,"targetTypeID":1,"width":558,"x":2168,"id":1042843830,"isScrollTo":false},{"metaData":{},"height":120,"isBottomAligned":false,"templateID":25775952,"eventTypeID":1,"targetScreenID":372209086,"y":580,"screenID":372216614,"transitionTypeID":1,"targetTypeID":1,"width":558,"x":2168,"id":1042843830,"isScrollTo":false}],
 						branding: {
 							stub: "invision",
 							url: "http://www.InVisionApp.com/"
